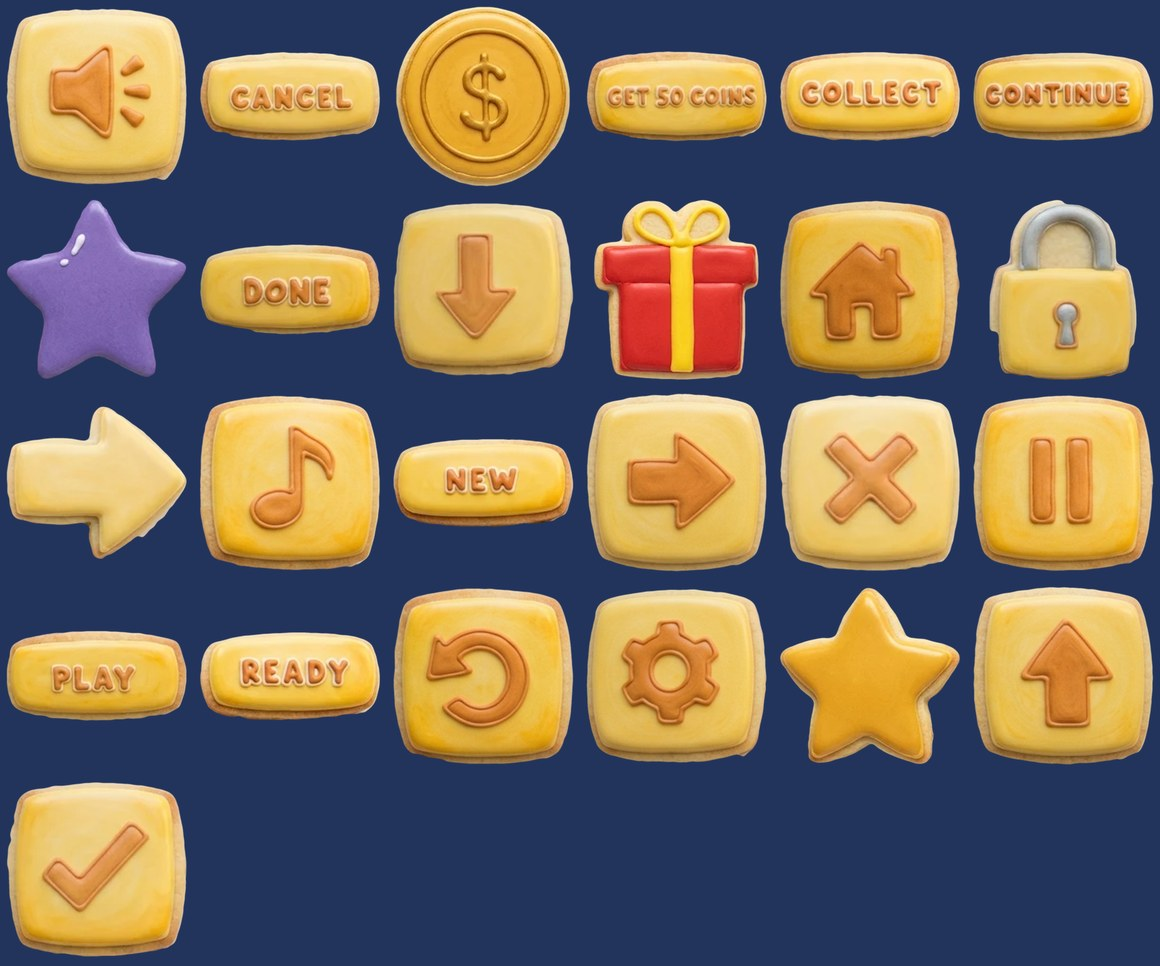
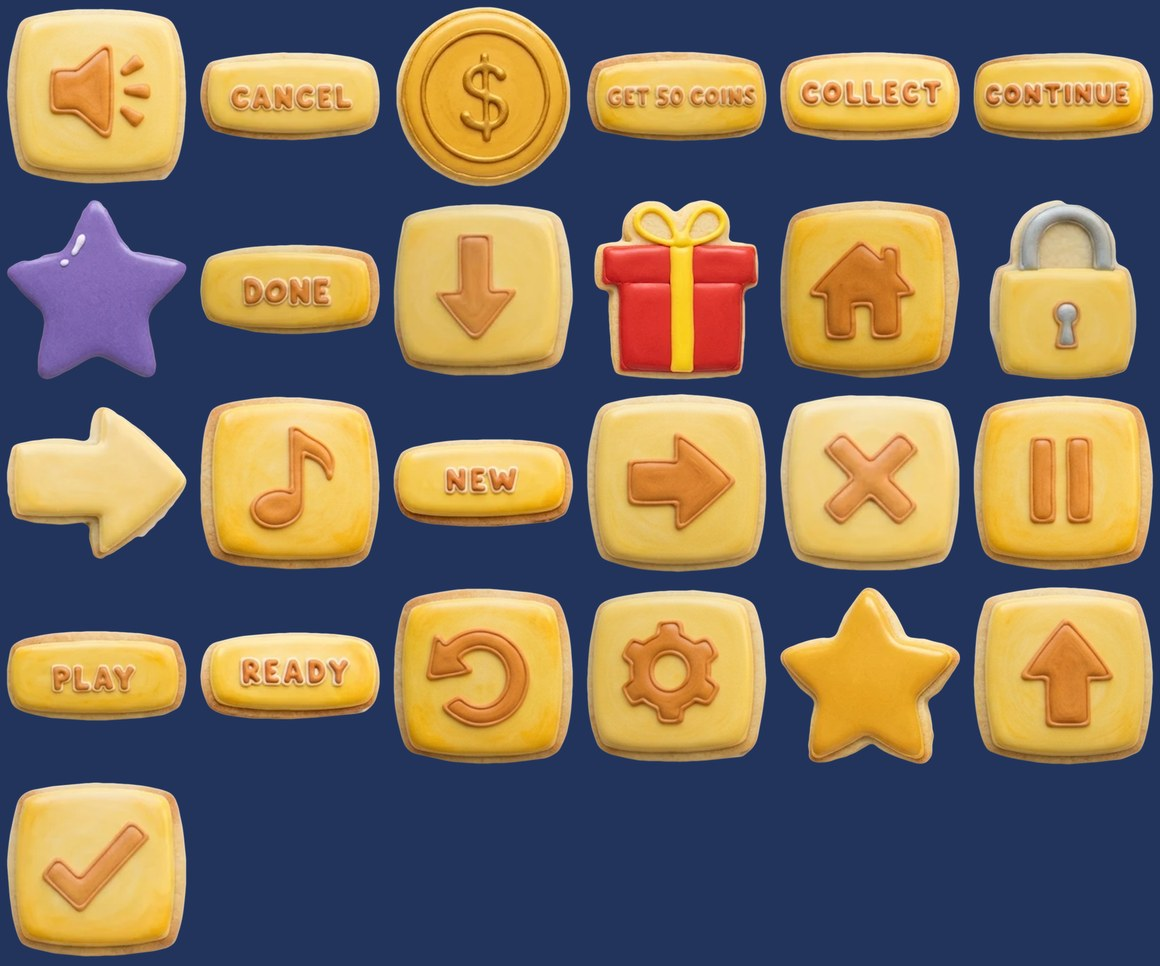
Report: release check for today's version

diff --git a/Docs/tools/report_page/index.html b/Docs/tools/report_page/index.html
@@ -74,11 +74,10 @@ h3 small{font-weight:600;color:var(--soft);font-size:13px;margin-left:6px}
 <h2 id="next"><span class="n">1</span>Next</h2>
 <div class="grid">
 <div class="who p1"><h3>You</h3>
+<p><b>Release check</b> (Current, first card): tested, five small fixes made; What's New draft.</p>
+<p><b>Your art review:</b> sprites, the strawberry cake, the cookie buttons (cleaned a fourth time; tick to apply).</p>
+<p><b>Then:</b> say "build" and "submit" when you are happy.</p>
 <p><b>Glows</b> (Current): in the game as you picked them.</p>
-<p><b>Cookie buttons</b> (Current): cleaned again with smooth edges; tick to apply.</p>
-<p><b>China</b> (Q&amp;A): the game is off the China mainland store, nothing else changed.</p>
-<p><b>Blender's bottom line</b> and <b>your test run's fixes</b> (Current): done. No test build until you say.</p>
-<p><b>Players</b> (Analysis): nobody has reached day 3; a tick to try it without the ad before day 3.</p>
 </div>
 <div class="who p2"><h3>Me</h3><p><b>Storage, 18 November:</b> your Mac had 6.8 GB free of 460 GB (the warning). Now 219 GB free. Deleted with your yes: Xcode's build cache (167 GB), old game builds (73 GB, kept today's build and the two store versions' archives), old editor screenshots and video frames (23 GB), old iPhone support files and simulators (29 GB), 12 merged work copies of the project (15 GB, all saved in git). Claude: old session logs and job folders of those copies. Kept: the Claude app's agent VM (11 GB, it needs it), all art, finished videos, store screenshots.</p><p><b>Version numbers:</b> the build's date with the full year (2026.11.18), builds from 0 each day.</p><p><b>26.11.22</b> with 15 Stars: approved 18 November 12:13 PST, releasing automatically.</p><p><b>ChatGPT</b>, after 18 November 20:21: the cake retouch, only if you tick it.</p></div>
 </div>
@@ -97,13 +96,52 @@ h3 small{font-weight:600;color:var(--soft);font-size:13px;margin-left:6px}
 </ul>
 </div>
 <h2 id="current"><span class="n">3</span>Current</h2>
+<div class="card" id="release-check">
+<p style="margin-top:0"><b>Release check for today's version, 18 November.</b> Everything except the art you are reviewing. Nothing built or sent to Apple.</p>
+<p style="margin:8px 0 4px"><b>What is in it</b> (since 26.11.22):</p>
+<ul>
+<li>Cookie style: start menu with thirty cookies and the cookie truck, cookie buttons with a firm press and three crunches, stars, Daily Treats, map circles and arrows.</li>
+<li>Shop: cookie cards, a bought thing is eaten bite by bite, then kept in the cookie book (with NEW on the book).</li>
+<li>Kitchen arrangement: seven movable pieces, a Ready in the kitchen too, the day starts after both.</li>
+<li>NEW labels with the white glow and stars on things just bought; gold shine on Ready and the map's red circle; a soft glow on what can be tapped in the kitchen.</li>
+<li>New blender (your frosty picture), the four choux in orders, cake slices, receipts over the served customer.</li>
+<li>60 pictures a second, the arrange hint only the first time.</li>
+</ul>
+<p style="margin:12px 0 4px"><b>Tested</b></p>
+<ul>
+<li>Chapter 1, a new game: tutorial, then all 16 days and the shop after each. No errors.</li>
+<li>Chapter 2, eight days with everything bought: no errors. The test player got stuck on ice creams with the same flavour twice; that was my test script (it checked one scoop instead of two), not the game. With it fixed, a chapter 2 day scored 2,233 with 3 stars, every ice cream served.</li>
+<li>The arrangement on iPhone and iPad: hint on the table and in the kitchen, Ready twice, NEW labels and glows, then play.</li>
+<li>A second reader went through all the code changed since 26.11.22. Nothing blocking; five small things, all fixed and tested: the new glow did not show in the kitchen, Ready came back 12 points low after a kitchen visit, Ready in the kitchen sat on the iPhone's home bar, a search ran every frame in the kitchen, buying candies put an empty NEW on the book.</li>
+</ul>
+<p style="margin:12px 0 4px"><b>Worth knowing</b></p>
+<ul>
+<li>The tip "The faster you serve, the more tips you earn!" no longer shows on alternate days: it lived in the same card as the drag hint, which is now for the first arrangement only. Say if you want it back on its own.</li>
+<li>The store screenshots still show the old buttons. They can stay; or I make new ones from the game after your art review.</li>
+<li>Privacy and age rating: nothing new collected, nothing to change. China mainland is off.</li>
+</ul>
+<p style="margin:12px 0 4px"><b>What's New</b>, a draft for your words:</p>
+<p style="margin:4px 0 4px 18px;white-space:pre-line">Everything is a cookie: new cookie buttons, start menu and shop.
+Your purchases go into a cookie book.
+Arrange your kitchen, not just your table.
+New blender, new choux flavours, a new cake.
+Smoother animations.</p>
+<p style="margin:12px 0 4px"><b>Left for you:</b> your art review (sprites, the strawberry cake, the cookie buttons' tick), the What's New words, then "build" and "submit". After your yes: build 2026.11.18 (2), version 2026.11.18 in App Store Connect with your words, submit.</p>
+<ul class="checks">
+<li><label><input type="checkbox" data-id="cur.rel18.whatsnew"> Use this What's New as it is</label></li>
+<li><label><input type="checkbox" data-id="cur.rel18.tipback"> Bring the "faster you serve" tip back</label></li>
+<li><label><input type="checkbox" data-id="cur.rel18.shots"> Make new store screenshots</label></li>
+</ul>
+</div>
+
 <div class="card">
-<p style="margin-top:0"><b>Cookie buttons: cleaned again, smoothly, 18 November.</b> Not applied yet; tick and I put them in.</p>
+<p style="margin-top:0"><b>Cookie buttons: cleaned a fourth time, 18 November.</b> Not applied yet; tick and I put them in.</p>
 <figure><img src="cookie_bottom.jpg" style="max-height:520px" alt="Six cookie buttons twice: with pale patches and strips under each, and with a smooth clean outline"><figcaption>On dark blue and on the menu's mint. Upper row of each pair: your test build. Lower row: the new clean.</figcaption></figure>
 <figure><img src="cookie_edge_zoom.jpg" style="max-height:330px" alt="Continue, gear and star cookies enlarged: smooth outlines with no pale rim or leftover"><figcaption>Close up.</figcaption></figure>
 <figure><img src="cookie_edge_all.jpg" style="max-height:600px" alt="Every cookie button, star, coin, gift, arrow and lock on dark blue, each with a clean smooth edge"><figcaption>All of them.</figcaption></figure>
 <ul>
-<li>A different method this time: instead of removing leftover pixels one by one, each cookie gets one smooth outline drawn just inside its own edge. So the edge is a clean curve and nothing pale is left round it.</li>
+<li>Each cookie gets one smooth outline drawn just inside its own edge, so nothing pale is left round it.</li>
+<li><b>New this time</b> (you said some still needed it): the square and bar cookies and the coin get their outline as one clean curved shape, which takes out the dents, bites and flat cuts (audio, the tick, the cross, Ready, New). The stars, the arrow, the gift and the lock are smoothed harder. Where the outline was filled out, the dough is blended in from round it, so no streaks.</li>
 <li>Gone: the grey-white backdrop, the soft shadow, and the dark line where the cookie touched the table.</li>
 <li>I did these here, not with Gemini: Gemini would repaint the cookies, and they would no longer be the ones you picked.</li>
 </ul>
